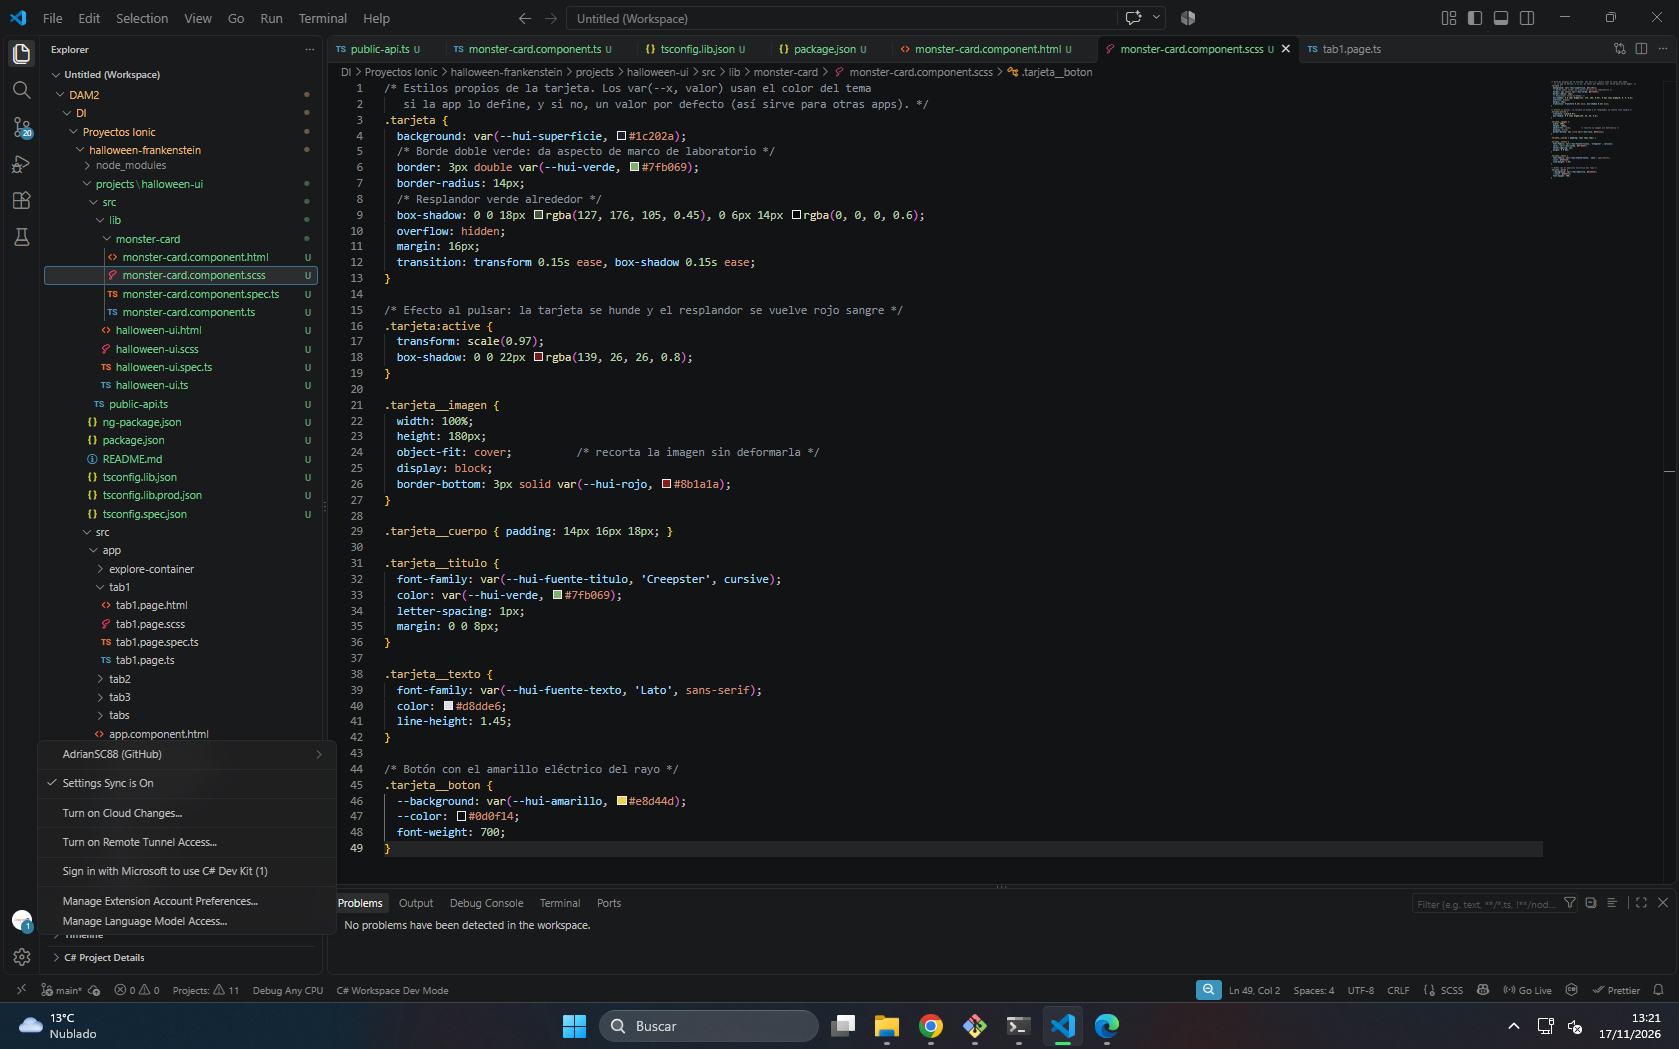
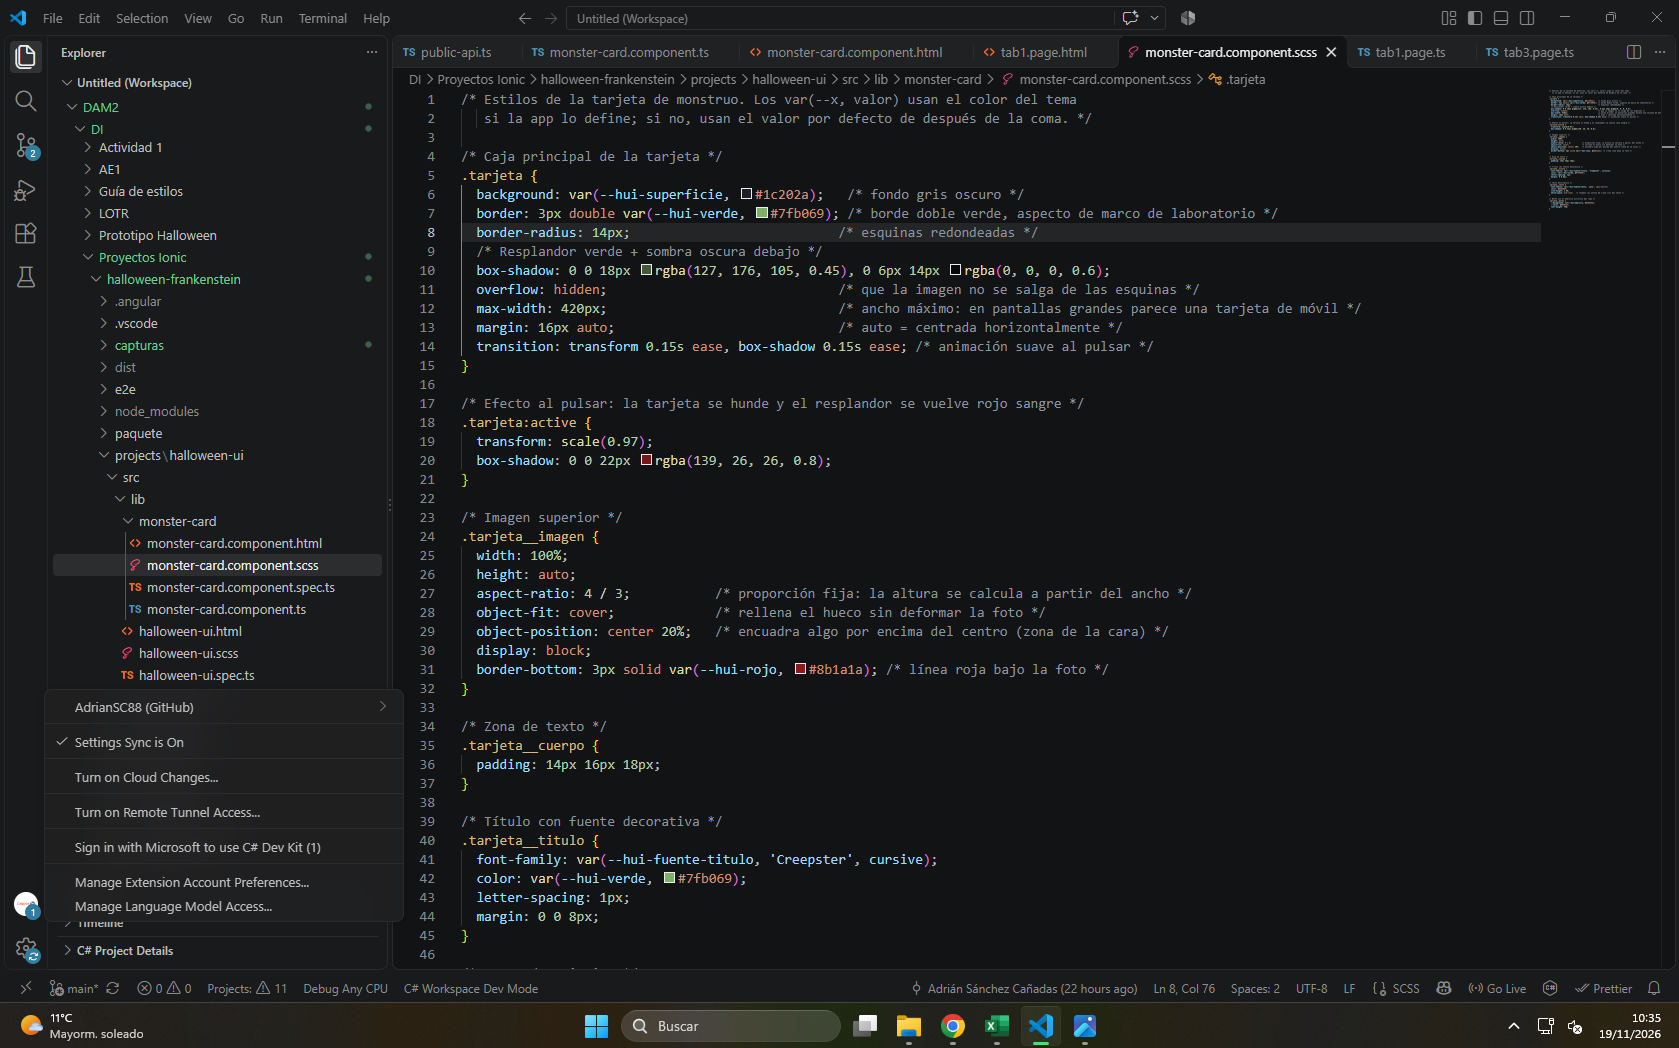
Tarjeta en Inicio, Historia (rejilla) y Galería, con imágenes y textos finales

diff --git a/src/app/tab3/tab3.page.html b/src/app/tab3/tab3.page.html
@@ -1,4 +1,3 @@
-<!-- Cabecera de la pestaña -->
 <ion-header>
   <ion-toolbar>
     <ion-title>Galería</ion-title>
@@ -6,14 +5,16 @@
 </ion-header>
 
 <ion-content>
-  <!-- Una tarjeta por cada elemento de la galería, con su imagen, título y frase -->
-  @for (elemento of galeria; track elemento.titulo) {
-    <lib-monster-card
-      [imagen]="elemento.imagen"
-      [titulo]="elemento.titulo"
-      [texto]="elemento.texto"
-      textoBoton="Ver más"
-      (botonPulsado)="alPulsar(elemento)"
-    />
-  }
+  <!-- Fila horizontal: las tarjetas van una al lado de otra (estilos en tab3.page.scss) -->
+  <div class="galeria">
+    @for (elemento of galeria; track elemento.titulo) {
+      <lib-monster-card
+        [imagen]="elemento.imagen"
+        [titulo]="elemento.titulo"
+        [texto]="elemento.texto"
+        textoBoton="Ver más"
+        (botonPulsado)="alPulsar(elemento)"
+      />
+    }
+  </div>
 </ion-content>

diff --git a/src/app/tab2/tab2.page.html b/src/app/tab2/tab2.page.html
@@ -1,4 +1,3 @@
-<!-- Cabecera de la pestaña -->
 <ion-header>
   <ion-toolbar>
     <ion-title>Historia</ion-title>
@@ -6,14 +5,15 @@
 </ion-header>
 
 <ion-content>
-  <!-- @for repite la tarjeta una vez por cada ficha de la lista del .ts.
-       Cada tarjeta recibe un contenido distinto mediante @Input(). -->
-  @for (ficha of fichas; track ficha.titulo) {
-    <lib-monster-card
-      [titulo]="ficha.titulo"
-      [texto]="ficha.texto"
-      [textoBoton]="ficha.textoBoton"
-      (botonPulsado)="alPulsar(ficha)"
-    />
-  }
+  <!-- Contenedor en rejilla: las tarjetas se colocan de 2 en 2 (estilos en tab2.page.scss) -->
+  <div class="rejilla">
+    @for (ficha of fichas; track ficha.titulo) {
+      <lib-monster-card
+        [titulo]="ficha.titulo"
+        [texto]="ficha.texto"
+        [textoBoton]="ficha.textoBoton"
+        (botonPulsado)="alPulsar(ficha)"
+      />
+    }
+  </div>
 </ion-content>

diff --git a/src/app/tab3/tab3.page.scss b/src/app/tab3/tab3.page.scss
@@ -1,0 +1,16 @@
+/* Fila de la pestaña Galería: las tarjetas van en horizontal */
+.galeria {
+  display: flex;
+  flex-direction: row;            /* una al lado de otra */
+  gap: 8px;
+  padding: 8px;
+  overflow-x: auto;               /* si no caben, se desplaza de lado con el dedo o el ratón */
+  scroll-snap-type: x mandatory;  /* al desplazar, la tarjeta se queda "enganchada" */
+  align-items: flex-start;
+}
+
+/* Cada tarjeta ocupa como mínimo 280 px y se reparte el espacio sobrante en pantallas grandes */
+.galeria lib-monster-card {
+  flex: 1 0 280px;
+  scroll-snap-align: start;
+}

diff --git a/src/app/tab2/tab2.page.scss b/src/app/tab2/tab2.page.scss
@@ -1,0 +1,8 @@
+/* Rejilla de la pestaña Historia: 2 columnas, así quedan las 4 tarjetas en 2 filas */
+.rejilla {
+  display: grid;
+  grid-template-columns: repeat(2, 1fr); /* dos columnas del mismo ancho */
+  gap: 8px;                              /* separación entre tarjetas */
+  padding: 8px;
+  align-items: start;                    /* cada tarjeta mantiene su propia altura */
+}
